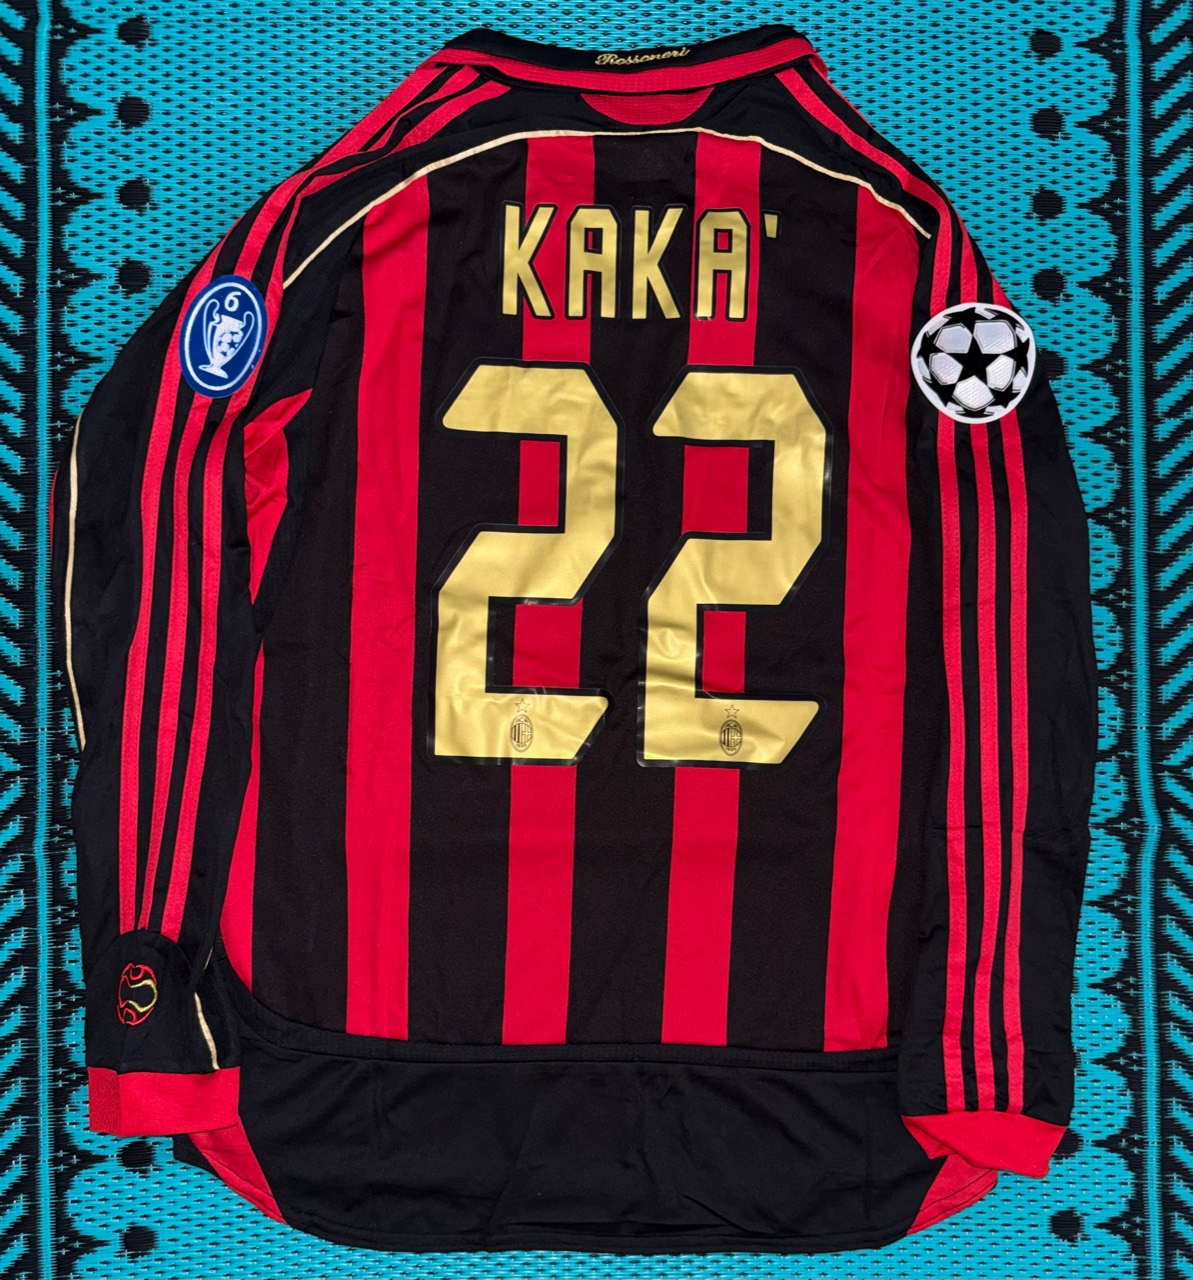
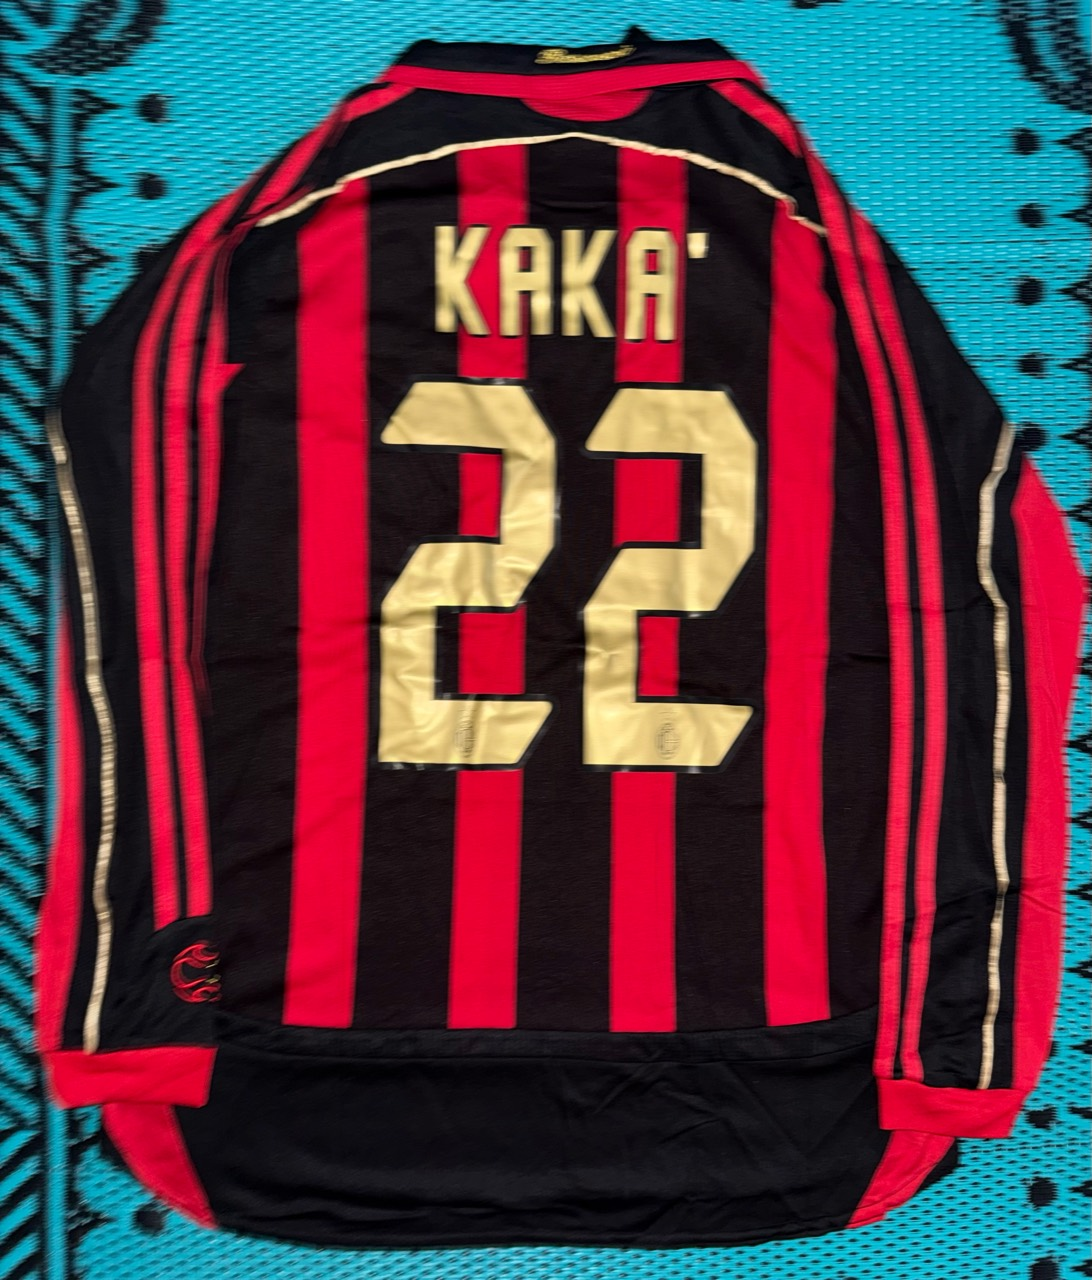
Add new jerseys and kids sizing updates

diff --git a/kids-kits.html b/kids-kits.html
@@ -1,18 +1,18 @@
 <!doctype html>
 <html lang="en">
-  <head><meta charset="UTF-8"><meta name="viewport" content="width=device-width, initial-scale=1"><title>Kids Kits | JerseysFrmJB</title><meta name="description" content="Browse Kids Kits from JerseysFrmJB. Every kit is size 24 and includes matching socks."><link rel="canonical" href="https://jerseysfrmjb.com/kids-kits"><link rel="icon" href="assets/jerseysfrmjb-logo.jpg" type="image/jpeg"><link rel="apple-touch-icon" href="assets/jerseysfrmjb-logo.jpg"><meta property="og:type" content="website"><meta property="og:site_name" content="JerseysFrmJB"><meta property="og:title" content="Kids Kits | JerseysFrmJB"><meta property="og:description" content="Size 24 Kids Kits with matching socks from JerseysFrmJB."><meta property="og:url" content="https://jerseysfrmjb.com/kids-kits"><meta property="og:image" content="https://jerseysfrmjb.com/assets/inventory/kids-manchester-united-home-blank-front.jpg"><meta property="og:image:alt" content="Manchester United Kids Kit with matching socks"><meta name="twitter:card" content="summary_large_image"><meta name="twitter:image" content="https://jerseysfrmjb.com/assets/inventory/kids-manchester-united-home-blank-front.jpg"><script type="application/ld+json">{"@context":"https://schema.org","@type":"FAQPage","mainEntity":[{"@type":"Question","name":"What size are the Kids Kits?","acceptedAnswer":{"@type":"Answer","text":"All Kids Kits are size 24. Check the measurements in the JerseysFrmJB size guide before purchasing."}},{"@type":"Question","name":"Do the Kids Kits include socks?","acceptedAnswer":{"@type":"Answer","text":"Yes. Each Kids Kit includes matching socks."}}]}</script><link rel="stylesheet" href="styles.css?v=checkout-promo-1"><link rel="stylesheet" href="design-preview.css?v=mobile-grid-2"><script src="meta-pixel.js?v=1" defer></script><script src="analytics.js?v=conversion-funnel-1" defer></script><script src="storefront.js?v=checkout-promo-1" defer></script><script src="shopify-cart.js?v=checkout-promo-1" defer></script></head>
+  <head><meta charset="UTF-8"><meta name="viewport" content="width=device-width, initial-scale=1"><title>Kids Kits | JerseysFrmJB</title><meta name="description" content="Browse Kids Kits in sizes 24, 26, and 28 from JerseysFrmJB. Every kit includes matching socks."><link rel="canonical" href="https://jerseysfrmjb.com/kids-kits"><link rel="icon" href="assets/jerseysfrmjb-logo.jpg" type="image/jpeg"><link rel="apple-touch-icon" href="assets/jerseysfrmjb-logo.jpg"><meta property="og:type" content="website"><meta property="og:site_name" content="JerseysFrmJB"><meta property="og:title" content="Kids Kits | JerseysFrmJB"><meta property="og:description" content="Kids Kits in sizes 24, 26, and 28 with matching socks from JerseysFrmJB."><meta property="og:url" content="https://jerseysfrmjb.com/kids-kits"><meta property="og:image" content="https://jerseysfrmjb.com/assets/inventory/kids-manchester-united-home-blank-front.jpg"><meta property="og:image:alt" content="Manchester United Kids Kit with matching socks"><meta name="twitter:card" content="summary_large_image"><meta name="twitter:image" content="https://jerseysfrmjb.com/assets/inventory/kids-manchester-united-home-blank-front.jpg"><script type="application/ld+json">{"@context":"https://schema.org","@type":"FAQPage","mainEntity":[{"@type":"Question","name":"What size are the Kids Kits?","acceptedAnswer":{"@type":"Answer","text":"Kids Kits may be size 24, 26, or 28. Check the Kids size chart in the JerseysFrmJB size guide before purchasing."}},{"@type":"Question","name":"Do the Kids Kits include socks?","acceptedAnswer":{"@type":"Answer","text":"Yes. Each Kids Kit includes matching socks."}}]}</script><link rel="stylesheet" href="styles.css?v=checkout-promo-1"><link rel="stylesheet" href="design-preview.css?v=mobile-grid-2"><script src="meta-pixel.js?v=1" defer></script><script src="analytics.js?v=conversion-funnel-1" defer></script><script src="storefront.js?v=checkout-promo-1" defer></script><script src="shopify-cart.js?v=checkout-promo-1" defer></script></head>
 <body>
   <header class="site-header"><button class="menu-toggle" type="button" aria-label="Open menu" aria-expanded="false">&#9776;</button><a class="site-name" href="/">Jerseysfrmjb</a><nav class="desktop-nav"><a href="/">Home</a><a href="/shop-all">Shop All</a><a href="/worldcup-jerseys">World Cup Jerseys</a><a href="/retro-jerseys">Retro Jerseys</a><a href="/club-jerseys">Club Jerseys</a><a class="active" href="/kids-kits">Kids Kits</a><a href="/size-guide">Size Guide</a><a href="/#contact-form">Contact</a></nav></header>
   <aside class="drawer" aria-hidden="true"><button class="drawer-close" type="button" aria-label="Close menu">&times;</button><a href="/">Home</a><a href="/shop-all">Shop All</a><a href="/worldcup-jerseys">World Cup Jerseys</a><a href="/retro-jerseys">Retro Jerseys</a><a href="/club-jerseys">Club Jerseys</a><a class="active" href="/kids-kits">Kids Kits</a><a href="/size-guide">Size Guide</a><a href="/#contact-form">Contact</a></aside><div class="drawer-backdrop"></div>
   <main>
-    <section class="page-title club-title" data-mark="KIDS"><div class="page-title-copy"><span>New Arrival</span><h1>Kids Kits</h1><p>Size 24 kits with matching socks.</p></div></section>
+    <section class="page-title club-title" data-mark="KIDS"><div class="page-title-copy"><span>New Arrival</span><h1>Kids Kits</h1><p>Kids sizes 24, 26, and 28 with matching socks.</p></div></section>
     <section class="inventory-page" id="inventory">
-      <p class="page-intro">Every Kids Kit is size 24 and comes with matching socks. Choose an available kit, then purchase through Depop only for now.</p>
+      <p class="page-intro">Every Kids Kit includes matching socks. Check the listed Kids size (24, 26, or 28) before purchasing. Choose an available kit, then purchase through Depop only for now.</p>
       <div class="inventory-filter" role="group" aria-label="Filter Kids Kits"><button class="active" type="button" data-filter="all">All</button><button type="button" data-filter="available">Available</button><button type="button" data-filter="sold-out">Sold Out</button><select class="size-filter" data-size-filter aria-label="Filter by size"><option value="all">All Sizes</option></select></div>
       <p class="inventory-updated" data-inventory-updated></p>
       <div class="google-inventory" data-inventory-grid data-category="kids"><p class="inventory-loading">Loading Kids Kits...</p></div>
-      <div class="page-actions"><a href="/size-guide">Check Measurements</a><a href="/">Back To Home</a></div>
-      <section class="seo-faq category-faq" aria-labelledby="kids-faq-heading"><span>Buying guide</span><h2 id="kids-faq-heading">Kids Kit questions</h2><details><summary>What size are these kits?</summary><p>All Kids Kits are size 24. Compare the measurements with the JerseysFrmJB size guide before purchasing.</p></details><details><summary>Are socks included?</summary><p>Yes. Each Kids Kit comes with matching socks.</p></details></section>
+      <div class="page-actions"><a href="/size-guide#kids-size-chart">Kids Size Chart</a><a href="/size-guide">Check Measurements</a><a href="/">Back To Home</a></div>
+      <section class="seo-faq category-faq" aria-labelledby="kids-faq-heading"><span>Buying guide</span><h2 id="kids-faq-heading">Kids Kit questions</h2><details><summary>What size are these kits?</summary><p>Kids Kits may be size 24, 26, or 28. Compare the measurements with the Kids size chart before purchasing.</p></details><details><summary>Are socks included?</summary><p>Yes. Each Kids Kit comes with matching socks.</p></details></section>
     </section>
   </main>
   <section class="where-to-buy marketplace-only-promo" aria-label="Depop purchase only"><span class="section-kicker">Depop Purchase Only For Now</span><h2>Ready to order?</h2><p>Shopify checkout and eBay are unavailable right now. Choose an available Kids Kit above, then purchase through Depop.</p><div class="marketplace-buttons"><a class="shop-button recommended" href="https://www.depop.com/jerseysfrmjb/" target="_blank" rel="noopener">Shop on Depop</a></div></section>

diff --git a/storefront.js b/storefront.js
@@ -190,13 +190,15 @@ function sortInventory(items) {
 
 function activeSizes(item) {
   const sizes = item?.sizes || {};
-  const order = ["24", "S", "M", "L", "XL", "2XL", "3XL", "4XL"];
+  const order = ["24", "26", "28", "S", "M", "L", "XL", "2XL", "3XL", "4XL"];
   return order.filter(size => Number(sizes[size]) > 0);
 }
 
 function sizeLabel(value = "") {
   const normalized = String(value).trim().toLowerCase();
   if (normalized === "24" || normalized === "kids 24") return "Kids 24";
+  if (normalized === "26" || normalized === "kids 26") return "Kids 26";
+  if (normalized === "28" || normalized === "kids 28") return "Kids 28";
   if (normalized === "s" || normalized === "small") return "Small";
   if (normalized === "m" || normalized === "medium") return "Medium";
   if (normalized === "l" || normalized === "large") return "Large";
@@ -208,6 +210,8 @@ function sizeLabelsFromText(value = "") {
   const text = String(value).toLowerCase();
   const labels = [];
   if (/\b24\b/.test(text)) labels.push("Kids 24");
+  if (/\b26\b/.test(text)) labels.push("Kids 26");
+  if (/\b28\b/.test(text)) labels.push("Kids 28");
   if (/\b(s|small)\b/.test(text)) labels.push("Small");
   if (/\b(m|medium)\b/.test(text)) labels.push("Medium");
   if (/\b(l|large)\b/.test(text)) labels.push("Large");
@@ -556,7 +560,7 @@ function sizeTokens(value = "") {
 function filterSizeTokens(item) {
   const active = activeSizes(item);
   if (active.length) {
-    return [...new Set(active.map(size => ({ "24": "kids 24", S: "small", M: "medium", L: "large", XL: "xl", "2XL": "2xl", "3XL": "3xl", "4XL": "4xl" }[size] || String(size).toLowerCase())))];
+    return [...new Set(active.map(size => ({ "24": "kids 24", "26": "kids 26", "28": "kids 28", S: "small", M: "medium", L: "large", XL: "xl", "2XL": "2xl", "3XL": "3xl", "4XL": "4xl" }[size] || String(size).toLowerCase())))];
   }
   const labels = sizeLabelsFromText(item?.size || displaySize(item));
   const tokenMap = { Small: "small", Medium: "medium", Large: "large", "XL+": "xl" };
@@ -872,6 +876,8 @@ function setupFilters(filterGroup, cards) {
   if (sizeSelect) {
     const options = [
       ["kids 24", "Kids 24"],
+      ["kids 26", "Kids 26"],
+      ["kids 28", "Kids 28"],
       ["small", "Small"],
       ["medium", "Medium"],
       ["large", "Large"],
@@ -885,7 +891,7 @@ function setupFilters(filterGroup, cards) {
 
   container?.querySelector("[data-advanced-filters]")?.remove();
   function selectedSizeLabel(value) {
-    return { "kids 24": "Kids 24", small: "Small", medium: "Medium", large: "Large", xl: "XL", "2xl": "2XL", "3xl": "3XL", "4xl": "4XL", "xl+": "XL+" }[value] || "";
+    return { "kids 24": "Kids 24", "kids 26": "Kids 26", "kids 28": "Kids 28", small: "Small", medium: "Medium", large: "Large", xl: "XL", "2xl": "2XL", "3xl": "3XL", "4xl": "4XL", "xl+": "XL+" }[value] || "";
   }
 
   function setActive(buttons, selected) {

diff --git a/functions/api/catalog/_products.js b/functions/api/catalog/_products.js
@@ -1,9 +1,11 @@
 const DEFAULT_SITE_ORIGIN = "https://jerseysfrmjb.com";
 const CURRENCY = "USD";
 const CACHE_CONTROL = "public, max-age=300, s-maxage=300, stale-while-revalidate=60";
-const SIZE_ORDER = ["24", "S", "M", "L", "XL", "2XL", "3XL", "4XL"];
+const SIZE_ORDER = ["24", "26", "28", "S", "M", "L", "XL", "2XL", "3XL", "4XL"];
 const SIZE_WORDS = [
   ["24", /\b24\b/],
+  ["28", /\b28\b/],
+  ["26", /\b26\b/],
   ["4XL", /4\s*x\s*l/i],
   ["3XL", /3\s*x\s*l/i],
   ["2XL", /2\s*x\s*l|xxl/i],
@@ -298,7 +300,8 @@ function productDescription(row, identity, availableSizes) {
 }
 
 const PATCH_DETAILS = [
-  [/kaka.*ac milan.*2006\/07/i, "UCL patches"],
+  [/kaka.*ac milan.*2006\/07.*away/i, "UCL patches"],
+  [/kaka.*ac milan.*2006\/07.*home/i, "No UCL patch"],
   [/ronaldo.*manchester united.*2007\/08/i, "BARCLAYS patches"],
   [/henry.*arsenal.*2005\/06/i, "BARCLAYS patches"],
   [/hazard.*chelsea.*2014\/15/i, "BARCLAYS patches"],
@@ -323,7 +326,7 @@ export function buildJerseyDescription(row = {}, options = {}) {
   const availableSizes = Array.isArray(options.availableSizes) ? options.availableSizes : [];
   const sizeLabels = availableSizes.map(size => {
     const value = String(size || "").trim();
-    return ({ "24": "Kids 24", S: "Small", M: "Medium", L: "Large", XL: "Extra Large" }[value] || value);
+    return ({ "24": "Kids 24", "26": "Kids 26", "28": "Kids 28", S: "Small", M: "Medium", L: "Large", XL: "Extra Large" }[value] || value);
   }).filter(Boolean);
   const number = titleNumber(title);
   const bullets = [];
@@ -331,7 +334,10 @@ export function buildJerseyDescription(row = {}, options = {}) {
   const patch = patchDetails(title);
   if (patch) bullets.push(patch);
   if (/long\s*sleeve|longsleeve/i.test(title)) bullets.push("Long sleeve");
-  if (row.category === "kids") bullets.push("Kids size 24");
+  if (row.category === "kids") {
+    const kidsSizes = sizeLabels.filter(label => /^Kids /.test(label)).map(label => label.replace(/^Kids /, ""));
+    bullets.push(kidsSizes.length > 1 ? `Kids sizes ${kidsSizes.join(", ")}` : `Kids size ${kidsSizes[0] || "24"}`);
+  }
   if (row.category === "kids") bullets.push("Matching socks included");
   bullets.push(row.category === "retro" ? "Retro fan version" : "Fan version");
   bullets.push("Excellent condition");

diff --git a/functions/api/_kidsKitInventory.js b/functions/api/_kidsKitInventory.js
@@ -144,6 +144,66 @@ export const adultSeptemberInventory = [
     new_arrival: true,
     date_added: "2026-09-12",
     sort_order: 680
+  },
+  {
+    id: "retro-ac-milan-kaka-away-0607-long",
+    category: "retro",
+    name: "Kaka #22 | AC Milan 2006/07 Away Long Sleeve",
+    size: "M",
+    sizes: {},
+    price: 55,
+    platform_prices: { Depop: 50, eBay: 55 },
+    quantity: 0,
+    photos: [
+      { src: "assets/inventory/retro-ac-milan-kaka-away-0607-long-front.jpg", alt: "Kaka AC Milan 2006/07 away long sleeve jersey front" },
+      { src: "assets/inventory/retro-ac-milan-kaka-away-0607-long-back.jpg", alt: "Kaka AC Milan 2006/07 away long sleeve jersey back" }
+    ],
+    links: MARKETPLACE_LINKS,
+    featured: false,
+    featured_order: 0,
+    new_arrival: true,
+    date_added: "2026-11-25",
+    sort_order: 455
+  },
+  {
+    id: "club-bayern-munich-kane-home-2026",
+    category: "club",
+    name: "Harry Kane #9 | Bayern Munich 2026 Home Jersey",
+    size: "M",
+    sizes: { M: 2 },
+    price: 55,
+    platform_prices: { Depop: 50, eBay: 55 },
+    quantity: 2,
+    photos: [
+      { src: "assets/inventory/club-bayern-kane-home-2026-front.jpg", alt: "Harry Kane Bayern Munich 2026 home jersey front" },
+      { src: "assets/inventory/club-bayern-kane-home-2026-back.jpg", alt: "Harry Kane Bayern Munich 2026 home jersey back" }
+    ],
+    links: MARKETPLACE_LINKS,
+    featured: false,
+    featured_order: 0,
+    new_arrival: true,
+    date_added: "2026-11-25",
+    sort_order: 690
+  },
+  {
+    id: "world-mexico-home-blank-2026",
+    category: "world",
+    name: "No Name/No Number | Mexico 2026 World Cup Home Jersey",
+    size: "M",
+    sizes: { M: 2 },
+    price: 55,
+    platform_prices: { Depop: 50, eBay: 55 },
+    quantity: 2,
+    photos: [
+      { src: "assets/inventory/world-mexico-home-blank-2026-front.jpg", alt: "Mexico 2026 World Cup home jersey front" },
+      { src: "assets/inventory/world-mexico-home-blank-2026-back.jpg", alt: "Mexico 2026 World Cup home jersey back" }
+    ],
+    links: MARKETPLACE_LINKS,
+    featured: false,
+    featured_order: 0,
+    new_arrival: true,
+    date_added: "2026-11-25",
+    sort_order: 700
   }
 ];
 

diff --git a/functions/api/_inventorySeed.js b/functions/api/_inventorySeed.js
@@ -1472,12 +1472,12 @@ export const seedInventory = {
       ],
       "size": "M",
       "sizes": {
-        "M": 2
+        "M": 1
       },
       "price": 55,
       "category": "retro",
       "name": "Kaka #22 | AC Milan 2006/07 Home Long Sleeve",
-      "quantity": 2,
+      "quantity": 1,
       "links": {
         "depop": "https://www.depop.com/jerseysfrmjb/",
         "ebay": "https://www.ebay.com/usr/jerseysfrmjb"
@@ -1650,7 +1650,7 @@ async function addColumnIfMissing(env, columnSql) {
   }
 }
 
-const SIZE_ORDER = ["24", "S", "M", "L", "XL", "2XL", "3XL", "4XL"];
+const SIZE_ORDER = ["24", "26", "28", "S", "M", "L", "XL", "2XL", "3XL", "4XL"];
 
 function parseSizeStock(value) {
   try {
@@ -2031,6 +2031,9 @@ export async function ensureInventory(env) {
   if (platformPriceStatements.length) await env.DB.batch(platformPriceStatements);
 
   await applyOneTimeKidsKitPricing(env, "kids_kits_pricing_2026_09_12");
+  await applyOneTimeStockSet(env, "split_kaka_home_away_2026_11_25", [
+    { id: "retro-ac-milan-kaka-home-0607-long", size: "M", quantity: 1, newArrival: true, dateAdded: "2026-11-25" }
+  ]);
   await applyOneTimeInventoryCleanup(env, "remove_incorrect_chelsea_and_duplicate_liverpool_blank_2026_09_04", ["club-chelsea-blue-blank", "club-liverpool-red-blank"]);
   await applyOneTimeStockSet(env, "set_palmer_pair_stock_2026_09_04", [
     { id: "club-chelsea-palmer-10", size: "M", quantity: 2, newArrival: true, dateAdded: "2026-09-04" }

diff --git a/styles.css b/styles.css
@@ -6286,6 +6286,7 @@
 /* Site audit: collision-free mobile actions and consistent keyboard focus. */
 .size-content>.size-chart{display:block;margin-bottom:38px;border:1px solid #ddd;box-shadow:0 8px 30px #0001}
 .size-content>.size-chart img{height:auto;object-fit:contain}
+.kids-size-chart-section{max-width:853px;margin:70px auto 0;padding-top:50px;border-top:1px solid #ddd}.kids-size-chart-section .section-kicker{display:block;margin-bottom:10px;color:var(--maroon);font-size:10px;font-weight:900;letter-spacing:1px;text-transform:uppercase}.kids-size-chart-section h2{margin-bottom:15px}.kids-size-chart-section p{max-width:700px;margin:0 auto;color:#555}.kids-size-chart-section img{display:block;width:100%;height:auto;margin:26px auto 0;border:1px solid #ddd;box-shadow:0 8px 30px #0001}
 .mobile-drawer-open{overflow:hidden}
 :where(a,button,input,select,textarea,summary):focus-visible{outline:3px solid #ffb8cf;outline-offset:3px}
 @media(max-width:540px){

diff --git a/size-guide.html b/size-guide.html
@@ -13,6 +13,12 @@
       </picture>
       <h2>Check Measurements</h2>
       <p>Use this chart as a general guide.</p>
+      <section class="kids-size-chart-section" id="kids-size-chart" aria-labelledby="kids-size-chart-heading">
+        <span class="section-kicker">Kids Kits</span>
+        <h2 id="kids-size-chart-heading">Children&rsquo;s Size Chart</h2>
+        <p>Use this chart to compare height, chest, length, waist, and pants measurements for Kids sizes 24, 26, and 28.</p>
+        <img loading="lazy" decoding="async" width="853" height="1200" src="assets/kids-size-chart.jpg" alt="Children's soccer kit size chart for Kids sizes 24, 26, and 28">
+      </section>
       <div class="page-actions"><a href="/">Back To Home</a></div>
     </section>
   </main>

diff --git a/functions/api/shopify/_products.js b/functions/api/shopify/_products.js
@@ -9,9 +9,11 @@ import {
 } from "../catalog/_products.js";
 import { sha256, shopifyGraphql } from "./_shared.js";
 
-export const SHOPIFY_SIZE_ORDER = ["24", "S", "M", "L", "XL", "2XL", "3XL", "4XL"];
+export const SHOPIFY_SIZE_ORDER = ["24", "26", "28", "S", "M", "L", "XL", "2XL", "3XL", "4XL"];
 const SIZE_LABELS = {
   "24": "Kids 24",
+  "26": "Kids 26",
+  "28": "Kids 28",
   S: "Small",
   M: "Medium",
   L: "Large",
@@ -22,6 +24,8 @@ const SIZE_LABELS = {
 };
 const SIZE_WORDS = [
   ["24", /\b24\b/],
+  ["28", /\b28\b/],
+  ["26", /\b26\b/],
   ["4XL", /4\s*x\s*l/i], ["3XL", /3\s*x\s*l/i], ["2XL", /2\s*x\s*l|xxl/i],
   ["XL", /\bxl\b|extra\s+large/i], ["L", /\bl\b|\blarge\b/i],
   ["M", /\bm\b|\bmedium\b/i], ["S", /\bs\b|\bsmall\b/i]

diff --git a/functions/api/admin/sales.js b/functions/api/admin/sales.js
@@ -1,7 +1,7 @@
 import { ensureInventory } from "../_inventorySeed.js";
 import { adminConfigError, isAuthorized, json, unauthorized } from "./_auth.js";
 
-const SIZE_ORDER = ["24", "S", "M", "L", "XL", "2XL", "3XL", "4XL"];
+const SIZE_ORDER = ["24", "26", "28", "S", "M", "L", "XL", "2XL", "3XL", "4XL"];
 const PLATFORMS = new Set(["Depop", "eBay", "Facebook", "Website", "Local", "Other"]);
 const SALES_SCHEMA_STATEMENTS = [
   `CREATE TABLE IF NOT EXISTS sales (
@@ -27,6 +27,8 @@ const SALES_SCHEMA_STATEMENTS = [
 ];
 const SIZE_WORDS = [
   ["24", /\b24\b/],
+  ["28", /\b28\b/],
+  ["26", /\b26\b/],
   ["4XL", /4\s*x\s*l/i],
   ["3XL", /3\s*x\s*l/i],
   ["2XL", /2\s*x\s*l|xxl/i],

diff --git a/admin.js b/admin.js
@@ -165,7 +165,7 @@ const shopifySetupAudit = document.querySelector("[data-shopify-setup-audit]");
 let inventory = [];
 let settings = {};
 let featuredLimit = 3;
-let sizeOptions = ["S", "M", "L", "XL", "2XL", "3XL", "4XL"];
+let sizeOptions = ["24", "26", "28", "S", "M", "L", "XL", "2XL", "3XL", "4XL"];
 let messages = [];
 let unreadMessages = 0;
 let requestSummaryRows = [];
@@ -2092,6 +2092,9 @@ function selectedFacebookProducts() {
 
 function facebookSizeLabel(size = "") {
   return {
+    "24": "Kids 24",
+    "26": "Kids 26",
+    "28": "Kids 28",
     S: "Small",
     M: "Medium",
     L: "Large",

diff --git a/functions/products/_page.js b/functions/products/_page.js
@@ -9,9 +9,11 @@ import {
 
 const DEFAULT_SITE_ORIGIN = "https://jerseysfrmjb.com";
 const PUBLIC_DEPOP_ONLY = true;
-const SIZE_ORDER = ["24", "S", "M", "L", "XL", "2XL", "3XL", "4XL"];
+const SIZE_ORDER = ["24", "26", "28", "S", "M", "L", "XL", "2XL", "3XL", "4XL"];
 const SIZE_LABELS = {
   "24": "Kids 24",
+  "26": "Kids 26",
+  "28": "Kids 28",
   S: "Small",
   M: "Medium",
   L: "Large",
@@ -22,6 +24,8 @@ const SIZE_LABELS = {
 };
 const SIZE_WORDS = [
   ["24", /\b24\b/],
+  ["28", /\b28\b/],
+  ["26", /\b26\b/],
   ["4XL", /4\s*x\s*l/i],
   ["3XL", /3\s*x\s*l/i],
   ["2XL", /2\s*x\s*l|xxl/i],

diff --git a/functions/api/admin/inventory-planner.js b/functions/api/admin/inventory-planner.js
@@ -6,7 +6,7 @@ import { adminConfigError, isAuthorized, json, unauthorized } from "./_auth.js";
 const JERSEY_TYPES = ["fan", "retro_short", "retro_long"];
 const CUSTOMIZATIONS = ["base", "nameset_patches"];
 const PRICE_PLATFORMS = ["Website", "eBay", "Depop", "Facebook"];
-const SIZE_ORDER = ["24", "S", "M", "L", "XL", "2XL", "3XL", "4XL"];
+const SIZE_ORDER = ["24", "26", "28", "S", "M", "L", "XL", "2XL", "3XL", "4XL"];
 
 const PLANNER_SCHEMA = [
   `CREATE TABLE IF NOT EXISTS inventory_suppliers (
